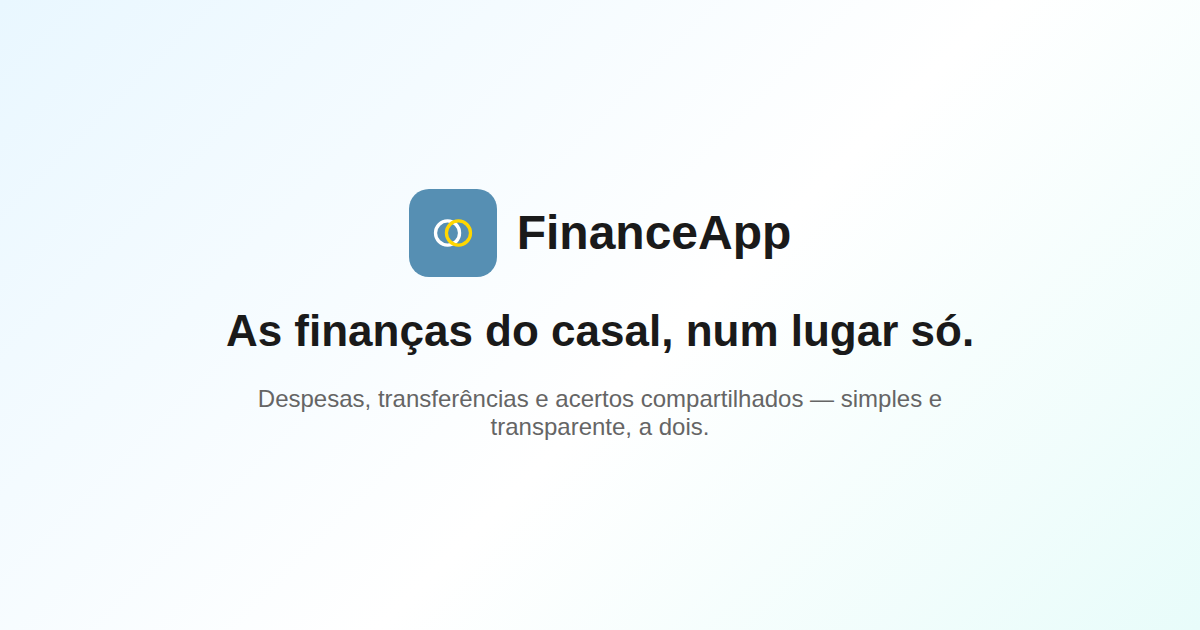
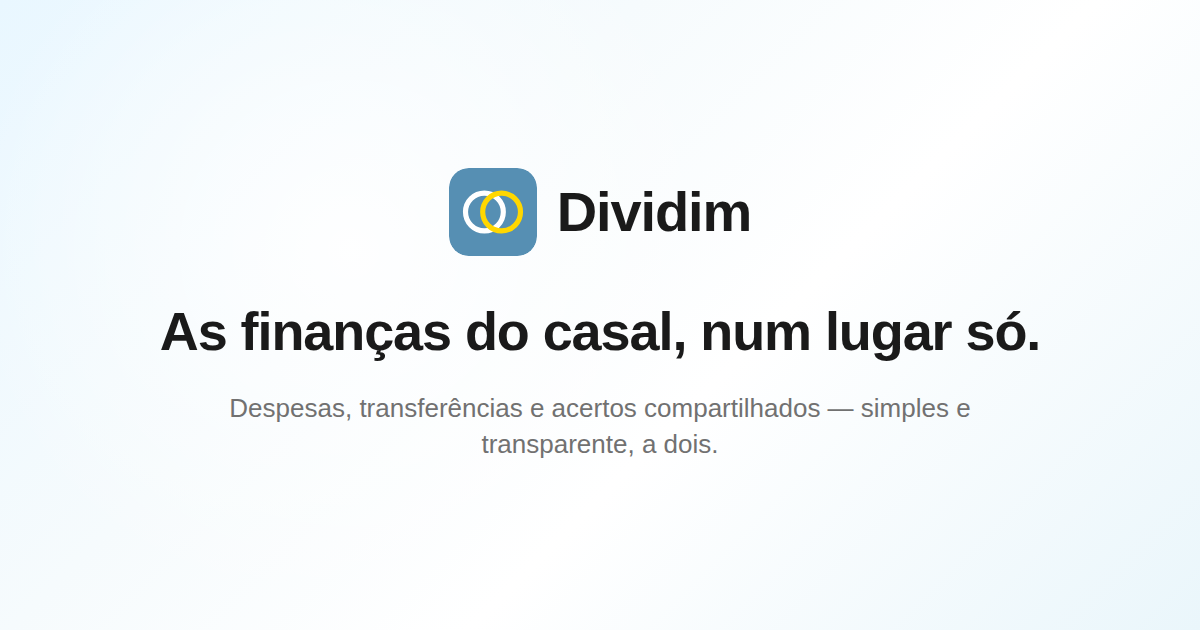
Rebrand landing page to Dividim, replace footer email with attribution
Renames every "FinanceApp" mention in the landing page (header, footer,
page title, OG image, package.json) to "Dividim" and swaps the footer's
mailto link for a "Desenvolvido por Mateus Deitos" credit linking to
github.com/mateusdeitos.

Claude-Session: https://claude.ai/code/session_01KRYhnobznfHvMJcdwFJXGK

Changed region(s): [[0.1233, 0.4825, 0.8633, 0.573], [0.185, 0.6032, 0.8017, 0.7238], [0.3392, 0.2413, 0.6783, 0.4524]]

diff --git a/landing/CLAUDE.md b/landing/CLAUDE.md
@@ -4,7 +4,7 @@ This file provides guidance to Claude Code (claude.ai/code) when working with th
 
 ## Project Overview
 
-Static marketing site for FinanceApp (a couples' finance management app), deployed to Cloudflare Pages. This is a deliberately separate, lighter tech context from `frontend/` — no Mantine, no TanStack Router/Query, no forms/validation stack. It has no backend of its own and no real user data.
+Static marketing site for Dividim (a couples' finance management app), deployed to Cloudflare Pages. This is a deliberately separate, lighter tech context from `frontend/` — no Mantine, no TanStack Router/Query, no forms/validation stack. It has no backend of its own and no real user data.
 
 ## Stack
 
